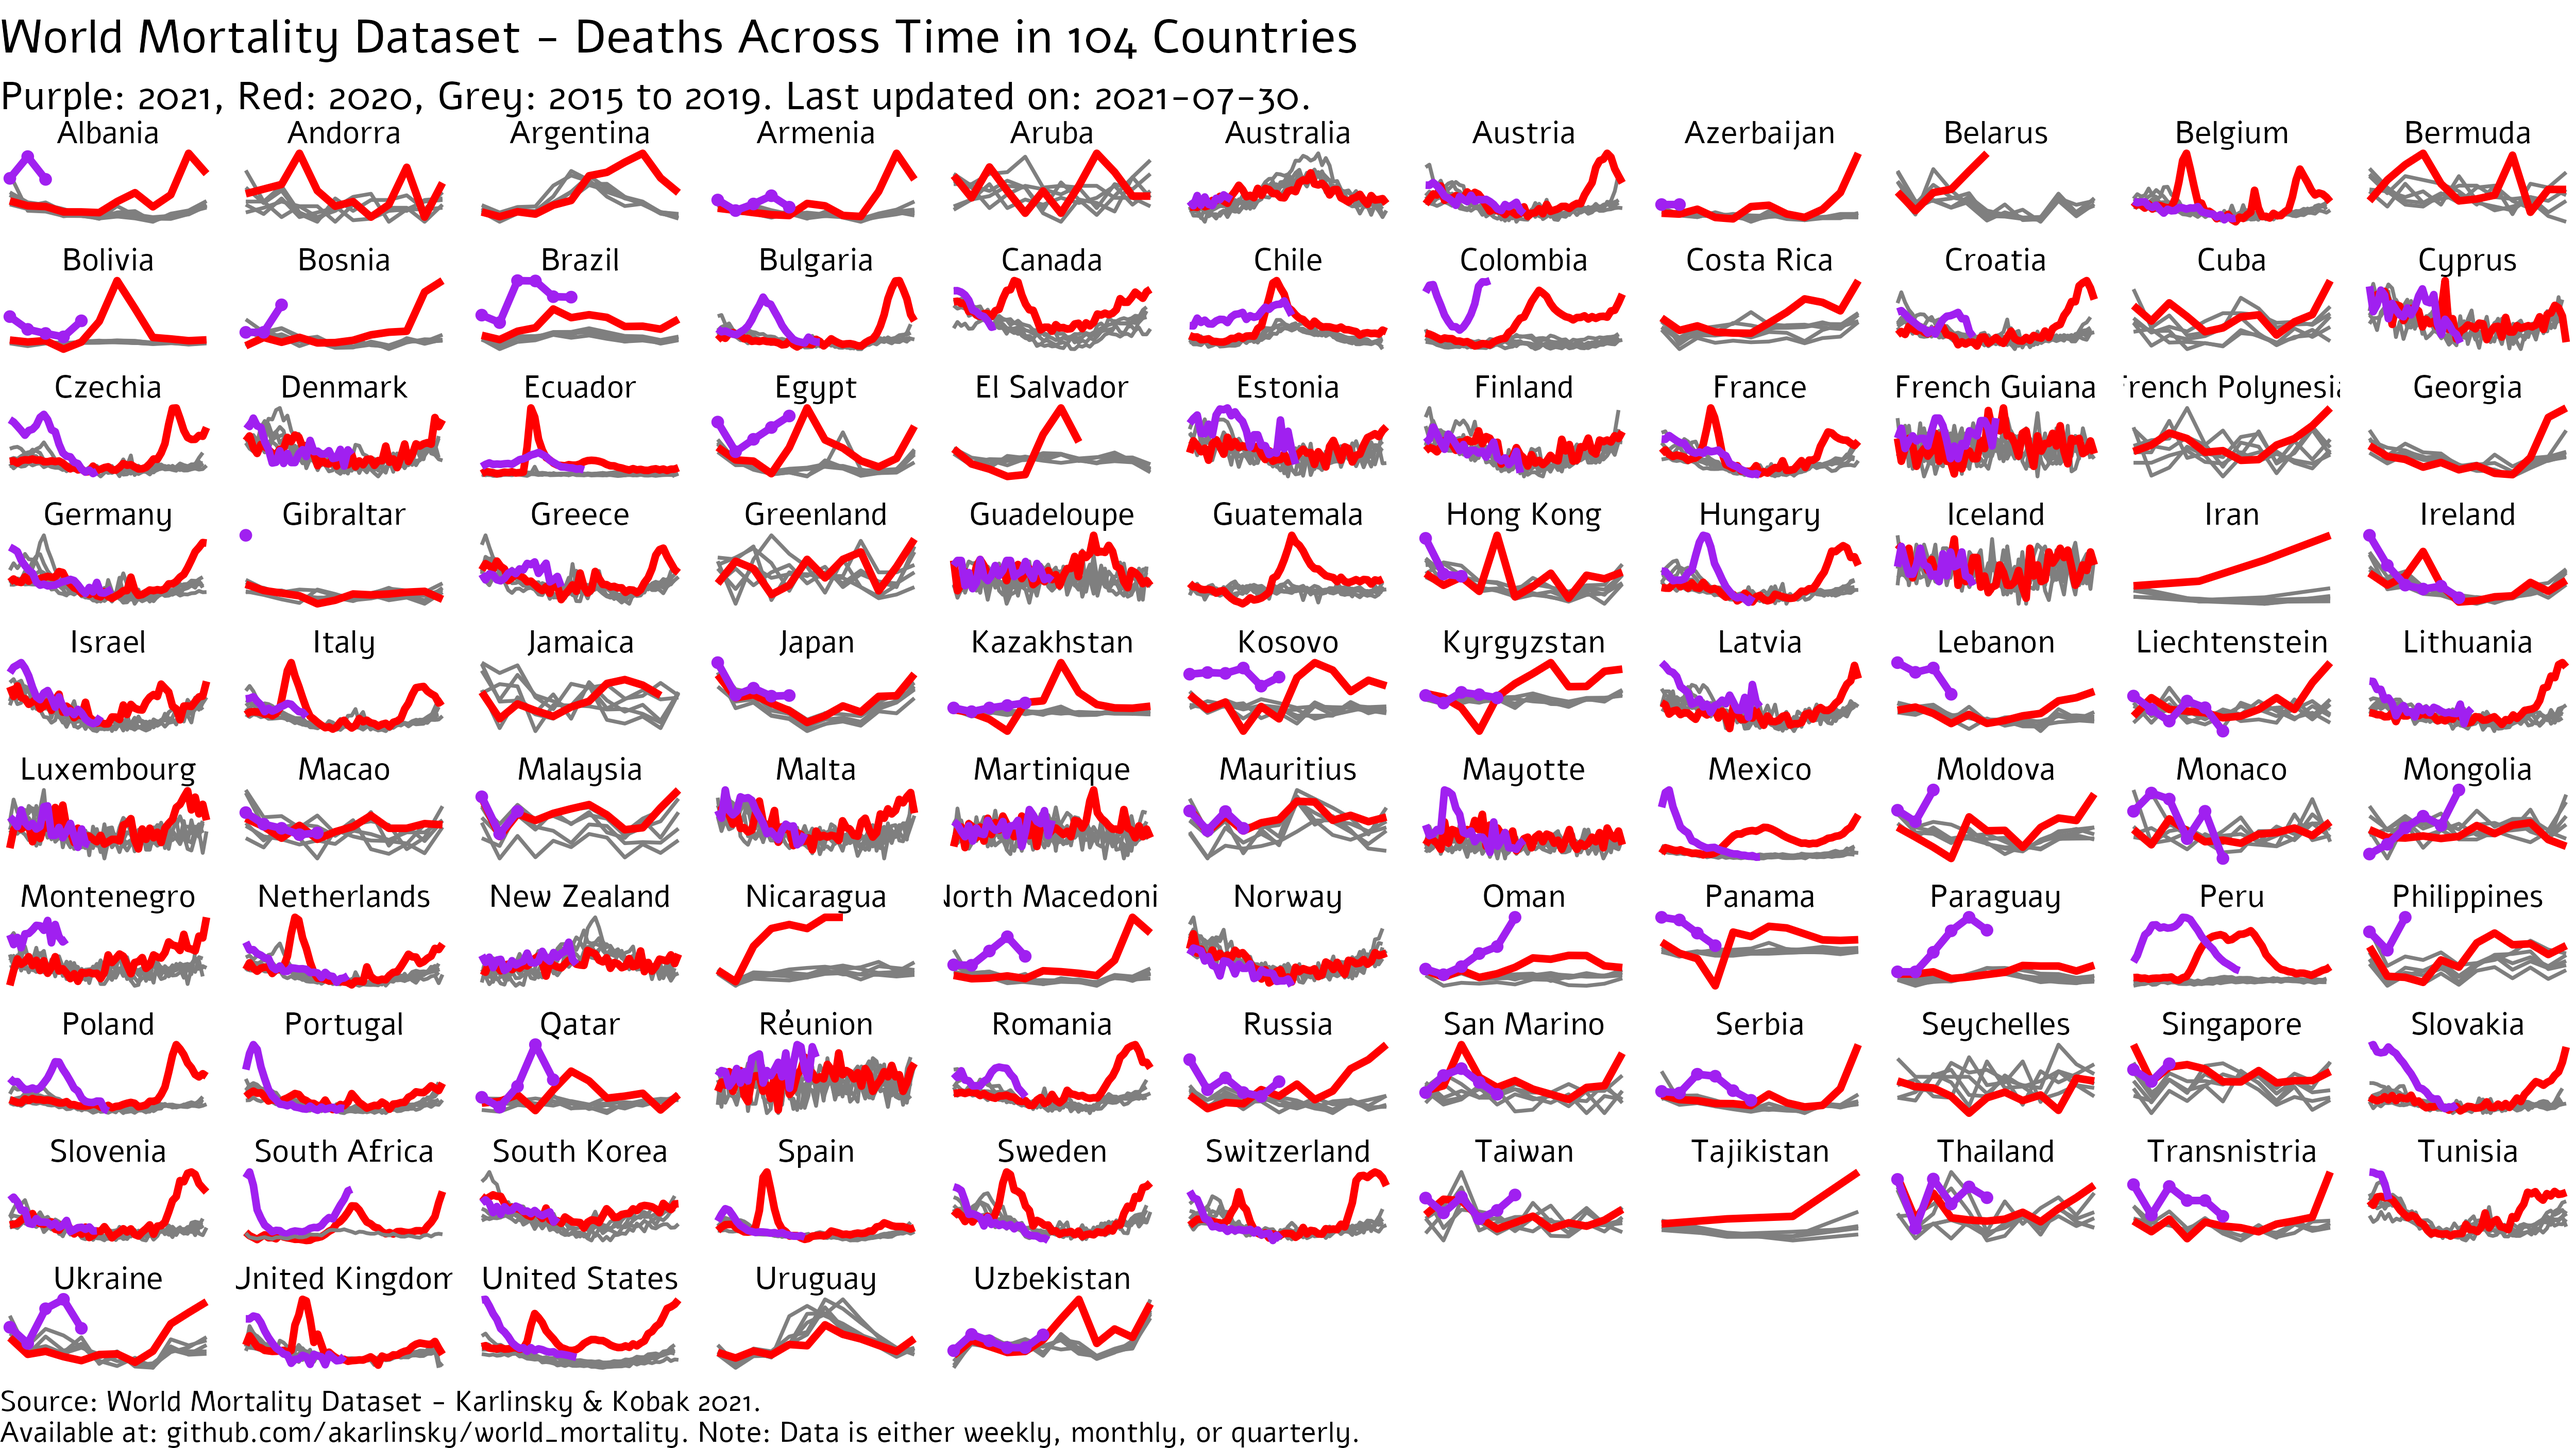
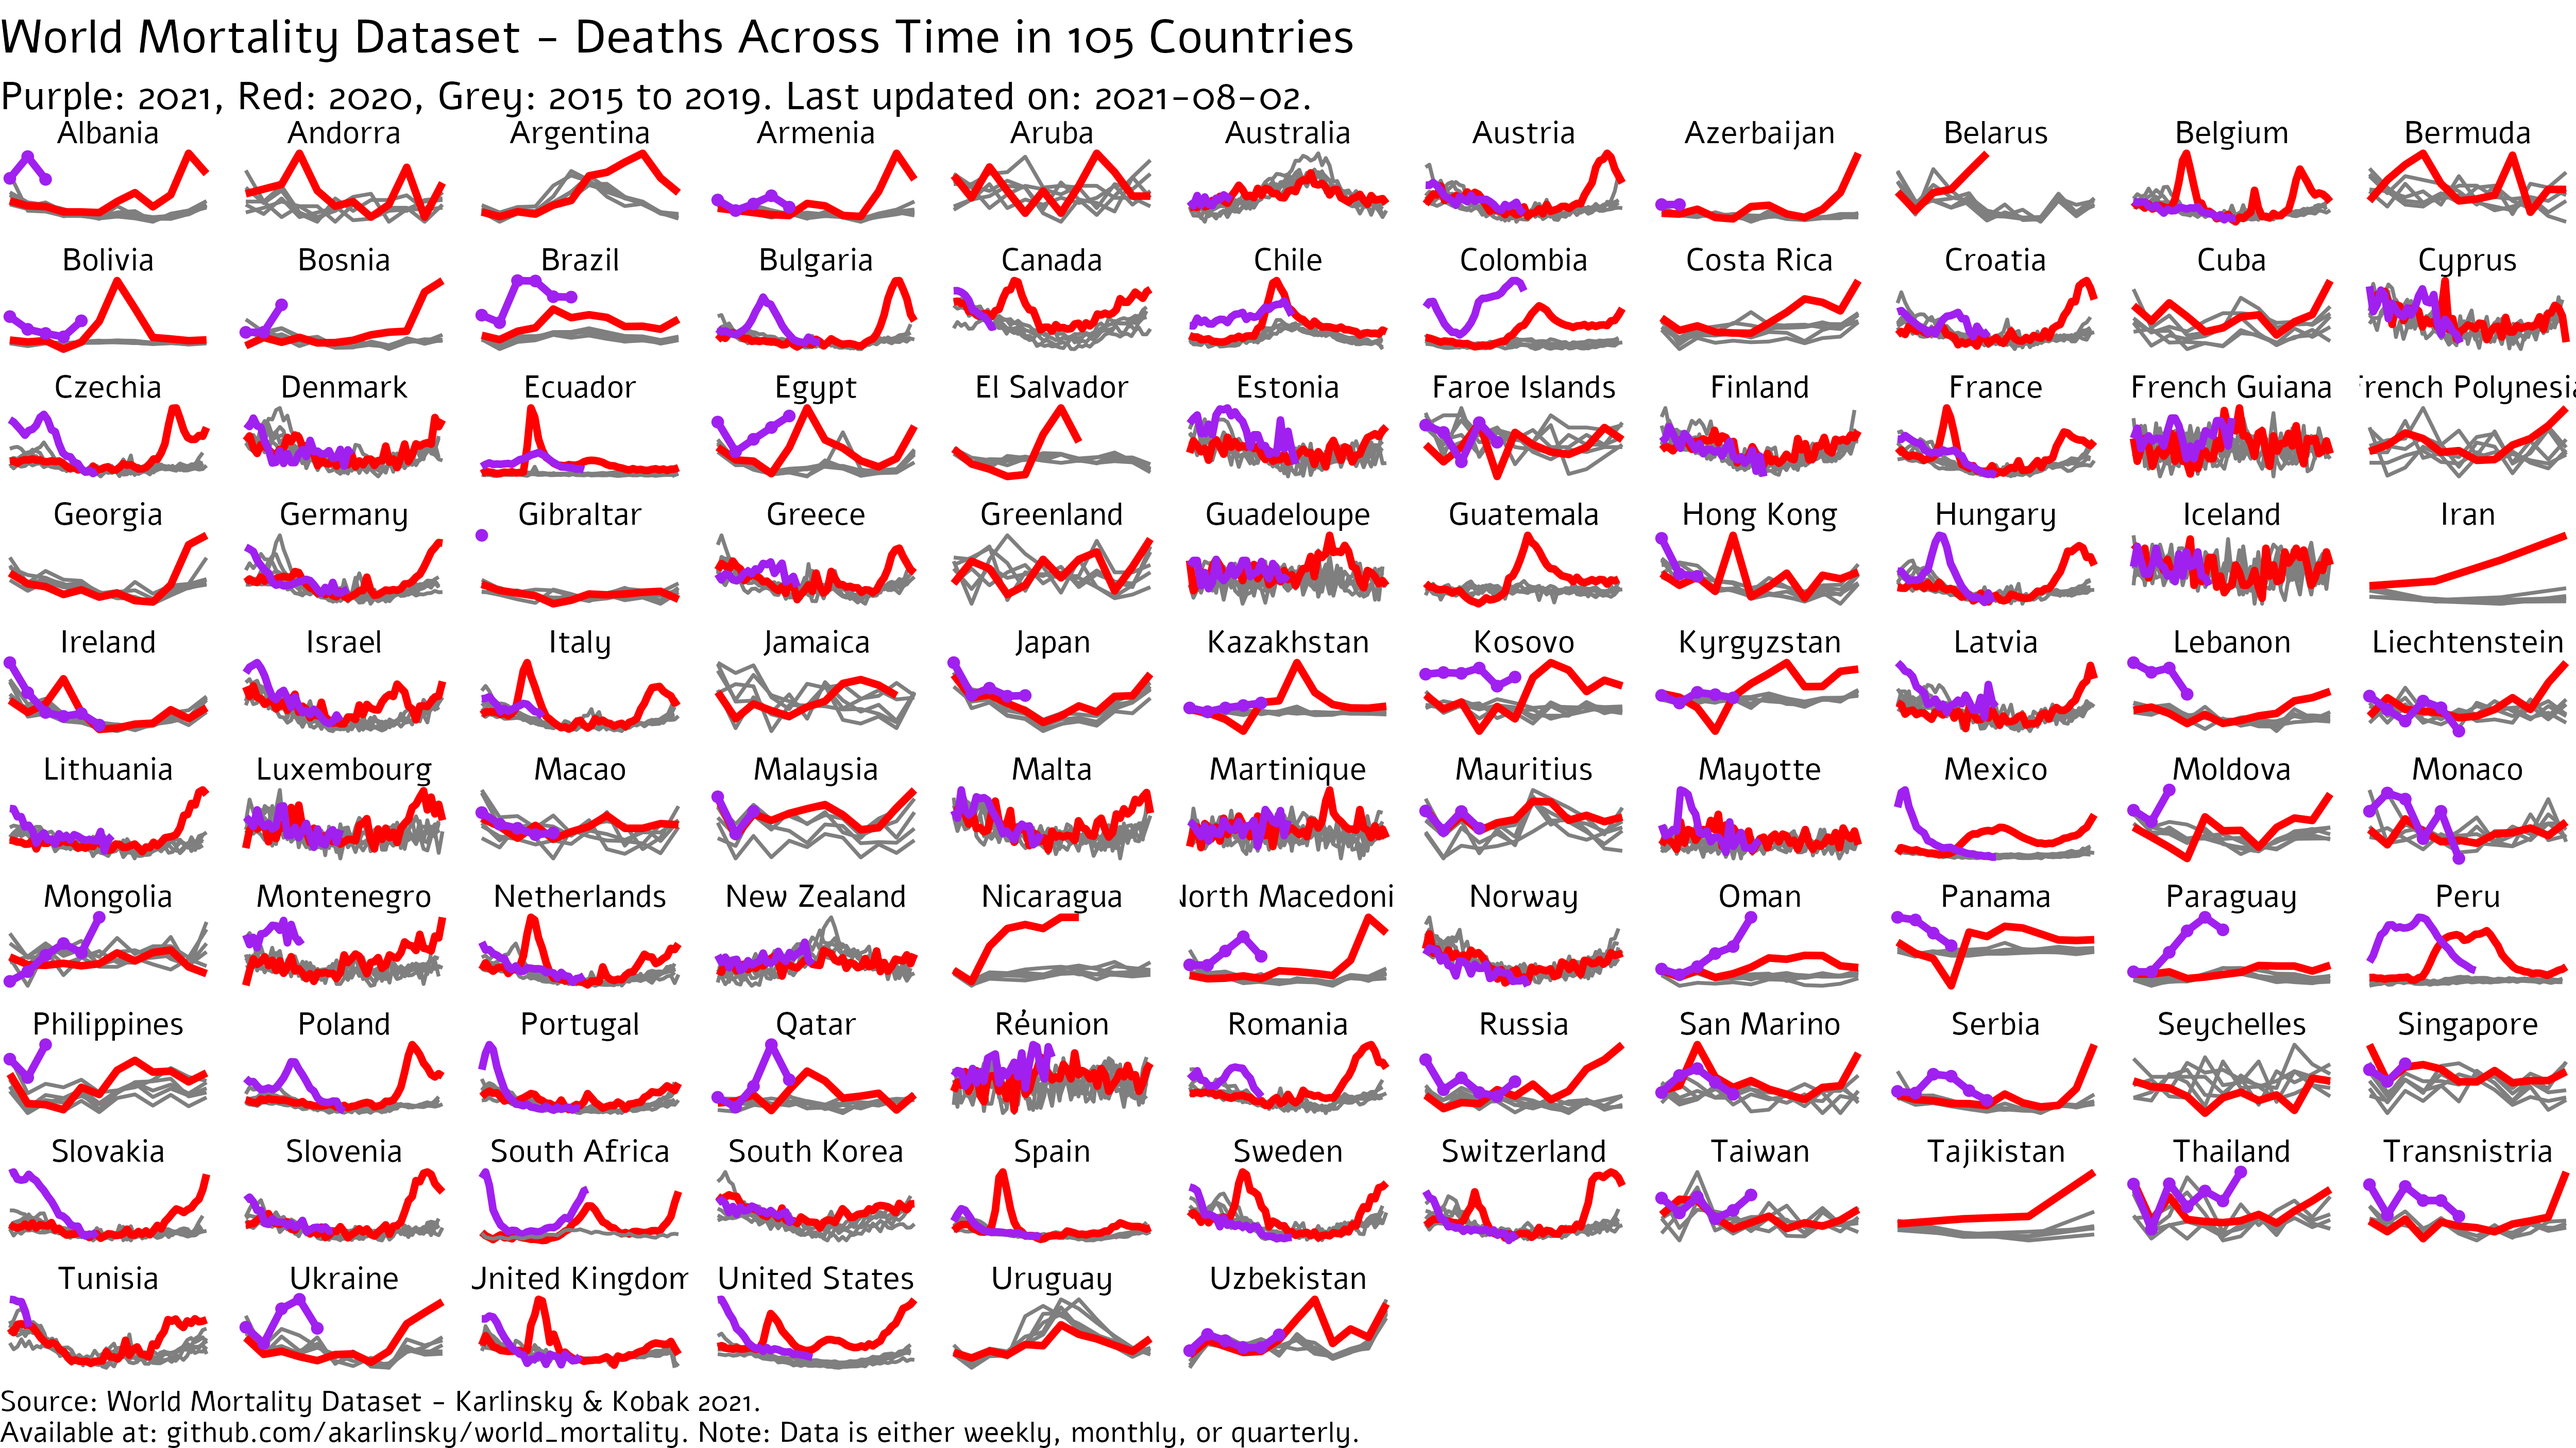
2021-08-02 Update
- New country: Faroe Islands 2015 onward.

- New data: Colombia, Croatia, Finland, Hungary, Israel, Luxembourg, Sweden, Thailand.

- Revisions: Brazil, Colombia, Hungary, Israel, Paraguay, Peru, Sweden.

Changed region(s): [[0.0, 0.1856, 1.0, 0.9591], [0.4368, 0.0, 0.5304, 0.0928]]

diff --git a/README.md b/README.md
@@ -1,7 +1,7 @@
 # World Mortality Dataset
 
 This repository contains country-level data on all-cause mortality in 2015–2021 collected from various sources, see below.   
-We are currently providing data for 104 countries and territories.   
+We are currently providing data for 105 countries and territories.   
 We welcome any contributions.
 
 If you use this data, please cite it as:    
@@ -180,6 +180,10 @@ https://www.capmas.gov.eg/Pages/Publications.aspx?page_id=5104&Year=23595
 
 ### El Salvador (monthly)
 2015 to 2020: Public Information Request by [LAB-DAT](https://lab-dat.com/) from [RNPN](https://www.rnpn.gob.sv/)
+
+
+### Faroe Islands (monthly)
+2015 onward: [Statistics Faroe Islands](https://hagstova.fo/en/population/births-and-deaths/deaths)
 
 
 ### French Polynesia (monthly)
